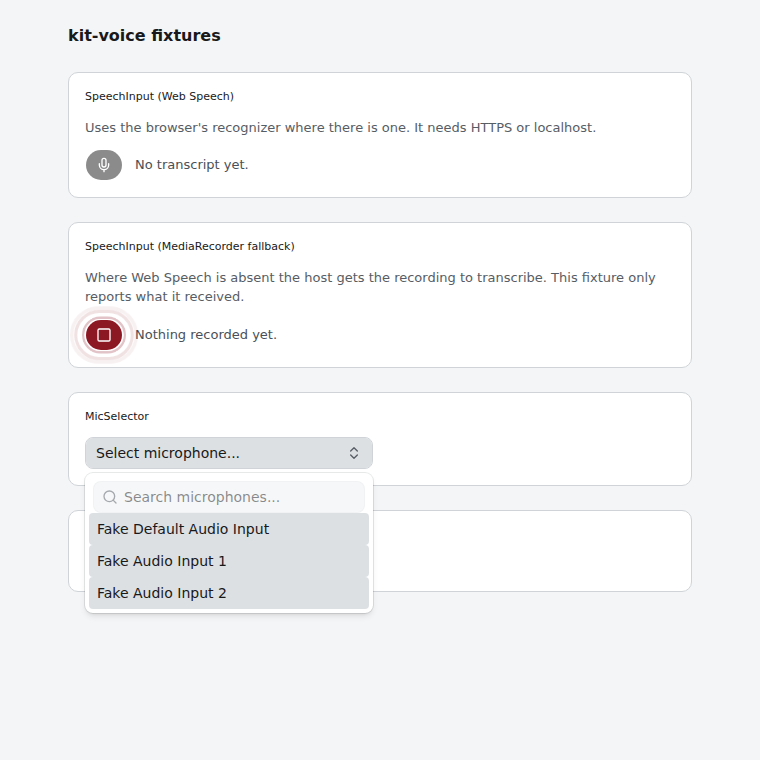
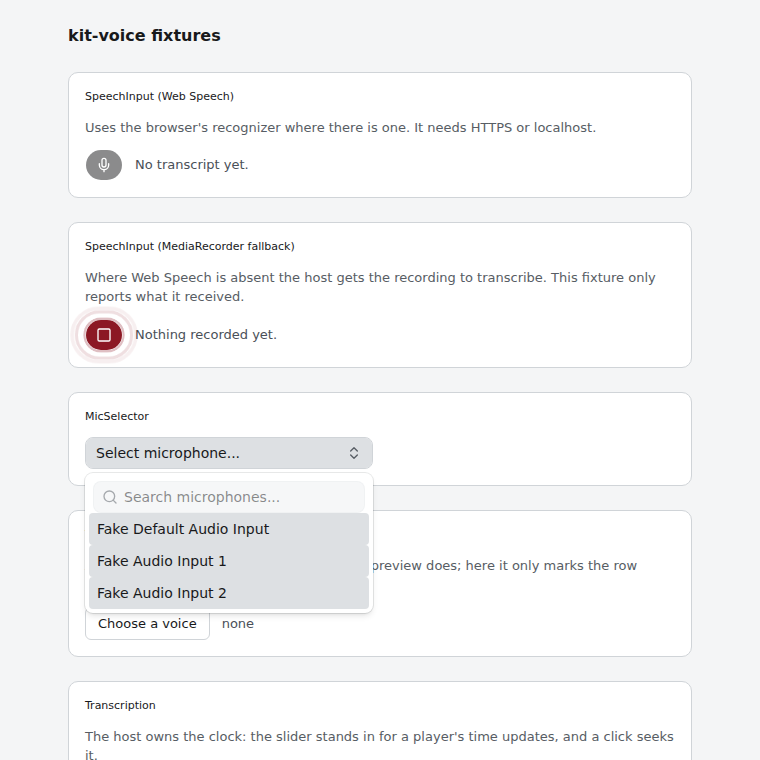
docs(kit-voice): README, CHANGELOG, licence scope and Chromium evidence for VoiceSelector and Transcription (CW-20261002-0048)
verify-browser.mjs gains the real-Dialog and seeking scenarios: 34 checks pass, 0 fail
(node packages/kit-voice/docs/evidence/verify-browser.mjs). Screenshots added for the voice
dialog and the transcription, light and dark, two themes. The screenshot host has no emoji
font, so accent flags show as boxes there; the README says flag glyphs are the OS's.

diff --git a/packages/kit-voice/README.md b/packages/kit-voice/README.md
@@ -17,14 +17,14 @@ states what diverged (and `docs/upstream-versions.md`). Each lands in its own ch
 |---|---|---|
 | `SpeechInput` | browser APIs only | **available** |
 | `MicSelector` (+ `MicSelector*` parts) and `useAudioDevices` | browser APIs only | **available** |
-| `VoiceSelector`, `Transcription` | browser APIs only | planned |
+| `VoiceSelector` (+ its parts), `Transcription` | browser APIs only | **available** |
 | `AudioPlayer` | `media-chrome`, behind `@hollis-labs/kit-voice/audio-player` | planned. Imports `ButtonGroup`: **needs the next `design-components` release (unreleased)** |
 
 Not taken: AI Elements' `Persona`. It needs Rive and `.riv` files hotlinked from
 Vercel's storage, and no licence for those assets is granted by the repository.
 
 **Compatibility.** kit-voice needs the next `design-components` release (unreleased). It
-imports `useControllableState`, which the workspace `design-components` exports but the
+imports `useControllableState` (used by `MicSelector`, `VoiceSelector` and `Transcription`), which the workspace `design-components` exports but the
 published `0.3.0` does not (and `AudioPlayer`, when it lands, imports `ButtonGroup`, also
 unreleased). Workspace linking hides this; a consumer on registry `0.3.0` would fail to
 resolve it. The `^0.3.0` range in `package.json` is the sibling convention and is raised
@@ -122,6 +122,70 @@ A Popover + Command combobox over the user's microphones. The parts are upstream
 - Picking a microphone does not bind it to `SpeechInput`: Web Speech cannot be pointed at a
   device, and the fallback uses the browser's default. The id is yours to use in your own
   `getUserMedia` call.
+
+## VoiceSelector
+
+A dialog of voices: `VoiceSelector` (root, owns `value` and `open`), `VoiceSelectorTrigger`,
+`VoiceSelectorContent`, then `Input`, `List`, `Empty`, `Group`, `Item`, `Separator`, `Shortcut`
+and the row parts `Name`, `Gender`, `Accent`, `Age`, `Description`, `Attributes`, `Bullet` and
+`Preview`. `VoiceSelectorDialog` is the same thing as one `CommandDialog` if you manage the
+trigger yourself.
+
+```tsx
+function Rows() {
+  const { setOpen, setValue } = useVoiceSelector()          // inside <VoiceSelector>
+  return voices.map((voice) => (
+    <VoiceSelectorItem key={voice.id} value={voice.id} keywords={[voice.name]}
+      onSelect={() => { setValue(voice.id); setOpen(false) }}>
+      <VoiceSelectorName>{voice.name}</VoiceSelectorName>
+      <VoiceSelectorAttributes>
+        <VoiceSelectorGender value={voice.gender} /><VoiceSelectorBullet />
+        <VoiceSelectorAccent value={voice.accent} />
+      </VoiceSelectorAttributes>
+      <VoiceSelectorPreview playing={playing === voice.id} onPlay={() => preview(voice.id)} />
+    </VoiceSelectorItem>
+  ))
+}
+```
+
+- **An item does not choose by itself.** Upstream's `VoiceSelectorItem` is a plain `CommandItem`:
+  wire `onSelect` through `useVoiceSelector()` as above (and pass `keywords`, as for
+  `MicSelector`: search matches `value` and `keywords`, not the visible text).
+- `onOpenChange` is `(open: boolean) => void`, called for every change including the context's
+  `setOpen`, so a controlled `open` closes when the host acts on it. (Base UI's own
+  `(open, eventDetails)` form is not passed through.)
+- `VoiceSelectorContent`'s `title` is the dialog's accessible name (visually hidden).
+- `VoiceSelectorPreview` only reports `onPlay`; what a preview plays is the host's. It stops its
+  click from reaching the row, so previewing does not choose the voice.
+- `VoiceSelectorGender` and `VoiceSelectorAccent` are announced by their value (`role="img"` and
+  `aria-label`) when they show the default icon or flag; pass children to show your own.
+- **Accents render as flag emoji, so what the user sees is up to their OS**: Windows draws
+  the two-letter region code instead of a flag, and a machine with no emoji font draws empty boxes
+  (that is what this repo's headless-Chromium screenshots show). Pass children for an icon of
+  your own. An accent not in the table renders nothing.
+- **Known limitation, from upstream:** a `VoiceSelectorPreview` button sits inside a
+  `role="option"` row, nested interactive content that the ARIA listbox pattern does not allow.
+  It works with mouse, touch and Tab; screen-reader behaviour inside the listbox is not verified.
+
+## Transcription
+
+A timed transcript that follows a clock and seeks on click. **The host owns the clock.**
+
+```tsx
+<Transcription segments={segments} currentTime={playerTime} onSeek={(t) => player.seek(t)}>
+  {(segment, index) => <TranscriptionSegment key={index} segment={segment} index={index} />}
+</Transcription>
+```
+
+- `segments` are `{ text, startSecond, endSecond }`: the fields upstream reads from the AI SDK's
+  transcription result, so those segments pass straight in without `ai` being a dependency.
+  Blank segments are skipped.
+- Feed `currentTime` from your player's time updates and the active segment (`data-active`,
+  `text-primary`) follows it; earlier segments are muted. A segment is active from its start up to,
+  not including, its end.
+- `onSeek(startSecond)` is called on every click on a segment, including the one already active.
+  Without `onSeek` (and without a segment `onClick`) segments are plain `<span>`s, not tab stops.
+  Left uncontrolled, `currentTime` starts at 0 and follows the last segment clicked.
 
 ## Why its own package
 

diff --git a/packages/kit-voice/docs/upstream-versions.md b/packages/kit-voice/docs/upstream-versions.md
@@ -9,6 +9,9 @@ Read-only checkout: `~/.cache/ai-elements-shared/upstream`. No `NOTICE` file at 
 | `src/mic-selector.tsx` | `packages/elements/src/mic-selector.tsx` | 2026-10-02 | Radix to Base UI (Popover from design-components, `asChild` to `render`); Radix `useControllableState` to design-components' (unreleased, `value`/`defaultValue` params); popover width from `--anchor-width`, not a ResizeObserver; `useAudioDevices` moved out |
 | `src/use-audio-devices.ts` | `packages/elements/src/mic-selector.tsx` (`useAudioDevices`) | 2026-10-02 | own file; `loadDevices` stable and single-flight (upstream re-prompted in a loop after a denial); no TypeError without `navigator.mediaDevices`; no `console.error` |
 | `src/speech-input.tsx` | `packages/elements/src/speech-input.tsx` | 2026-10-02 | Button from design-components, no Spinner (lucide `LoaderCircleIcon`), no `declare global`; tokens (`danger`) not `red-400`/`white`; mode via `useSyncExternalStore` gated on `isSecureContext`; recognition created on click not in an effect; `onError`; Blob typed from the recorder, not `audio/webm`; unmount discards a running recording; host `onClick` composed; `aria-label`/`aria-pressed`; `data-unavailable` |
+| `src/voice-selector.tsx` | `packages/elements/src/voice-selector.tsx` | 2026-10-02 | Dialog and Command from design-components, Radix `useControllableState` to design-components'; context and `useVoiceSelector` moved to `voice-selector-context.ts`; `onOpenChange` is `(open) => void`; accent switch to a lookup table (same flags); `role="img"` + `aria-label` on default gender icon and flag; Spinner to lucide `LoaderCircleIcon`; `aria-busy` on Preview; `aria-describedby={undefined}` dropped |
+| `src/voice-selector-context.ts` | `packages/elements/src/voice-selector.tsx` (context, `useVoiceSelector`) | 2026-10-02 | own file (react-refresh) |
+| `src/transcription.tsx` | `packages/elements/src/transcription.tsx` | 2026-10-02 | `ai` type to local `TranscriptionSegmentData`; Radix hook to design-components'; clicking records the time when uncontrolled and always calls `onSeek` (upstream's `onTimeUpdate` was never called); `onTimeUpdate` removed from the context; a non-interactive segment is a `<span>` |
 
 No original (non-vendored) source in this package.
 Not taken: `persona.tsx` (Rive, hotlinked `.riv` assets, no licence for them).

diff --git a/packages/kit-voice/CHANGELOG.md b/packages/kit-voice/CHANGELOG.md
@@ -11,6 +11,13 @@
 - Add `MicSelector` (and its `MicSelector*` parts) and `useAudioDevices`. Asks for the
   microphone once per open instead of looping after a denial, and does not throw without
   `navigator.mediaDevices`.
+- Add `VoiceSelector` and its parts (`Trigger`, `Content`, `Dialog`, `Input`, `List`, `Empty`,
+  `Group`, `Item`, `Shortcut`, `Separator`, `Gender`, `Accent`, `Age`, `Name`, `Description`,
+  `Attributes`, `Bullet`, `Preview`) and `useVoiceSelector`. `onOpenChange` is `(open) => void`;
+  gender and accent are announced by name; the preview does not choose the row it sits in.
+- Add `Transcription` and `TranscriptionSegment`, with a local `TranscriptionSegmentData`
+  instead of the AI SDK's type. Clicking a segment records the time when uncontrolled and always
+  calls `onSeek`; a segment nothing can act on is a `<span>`, not a button.
 - Radix's `useControllableState` is replaced by the one `design-components` now exports.
   **kit-voice therefore needs the next `design-components` release (unreleased); the
   published `0.3.0` does not export it.**
